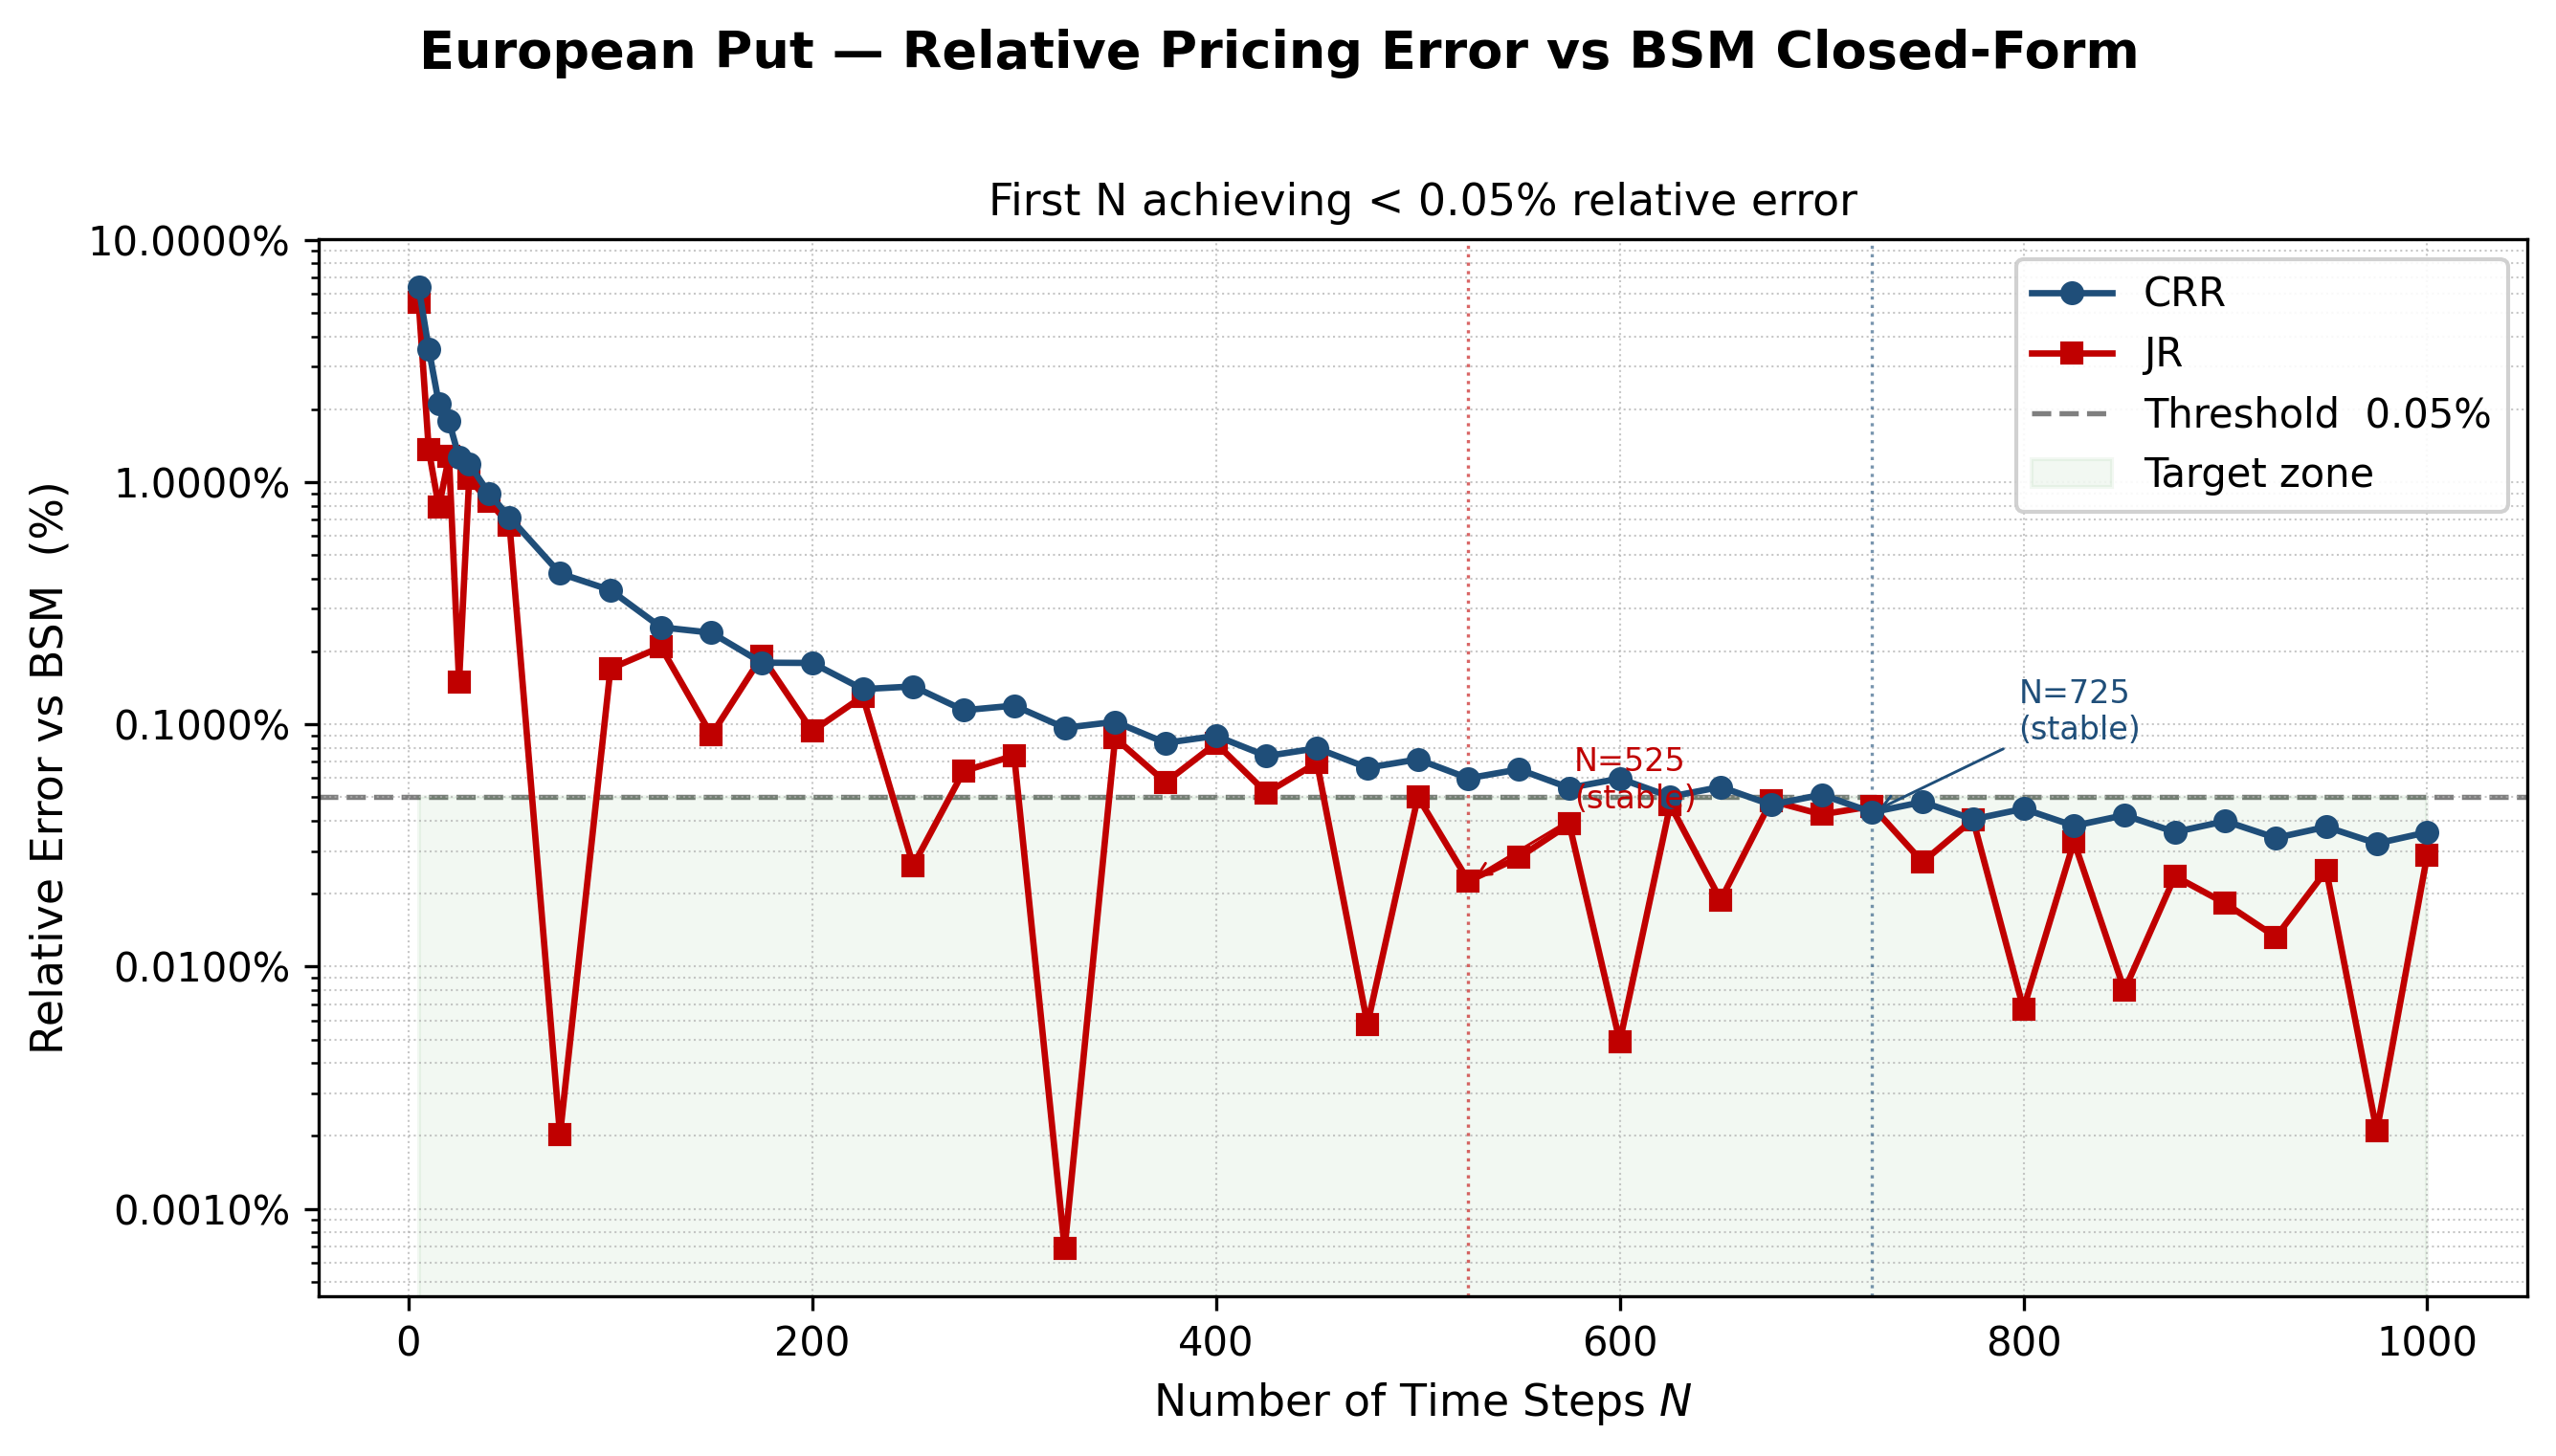
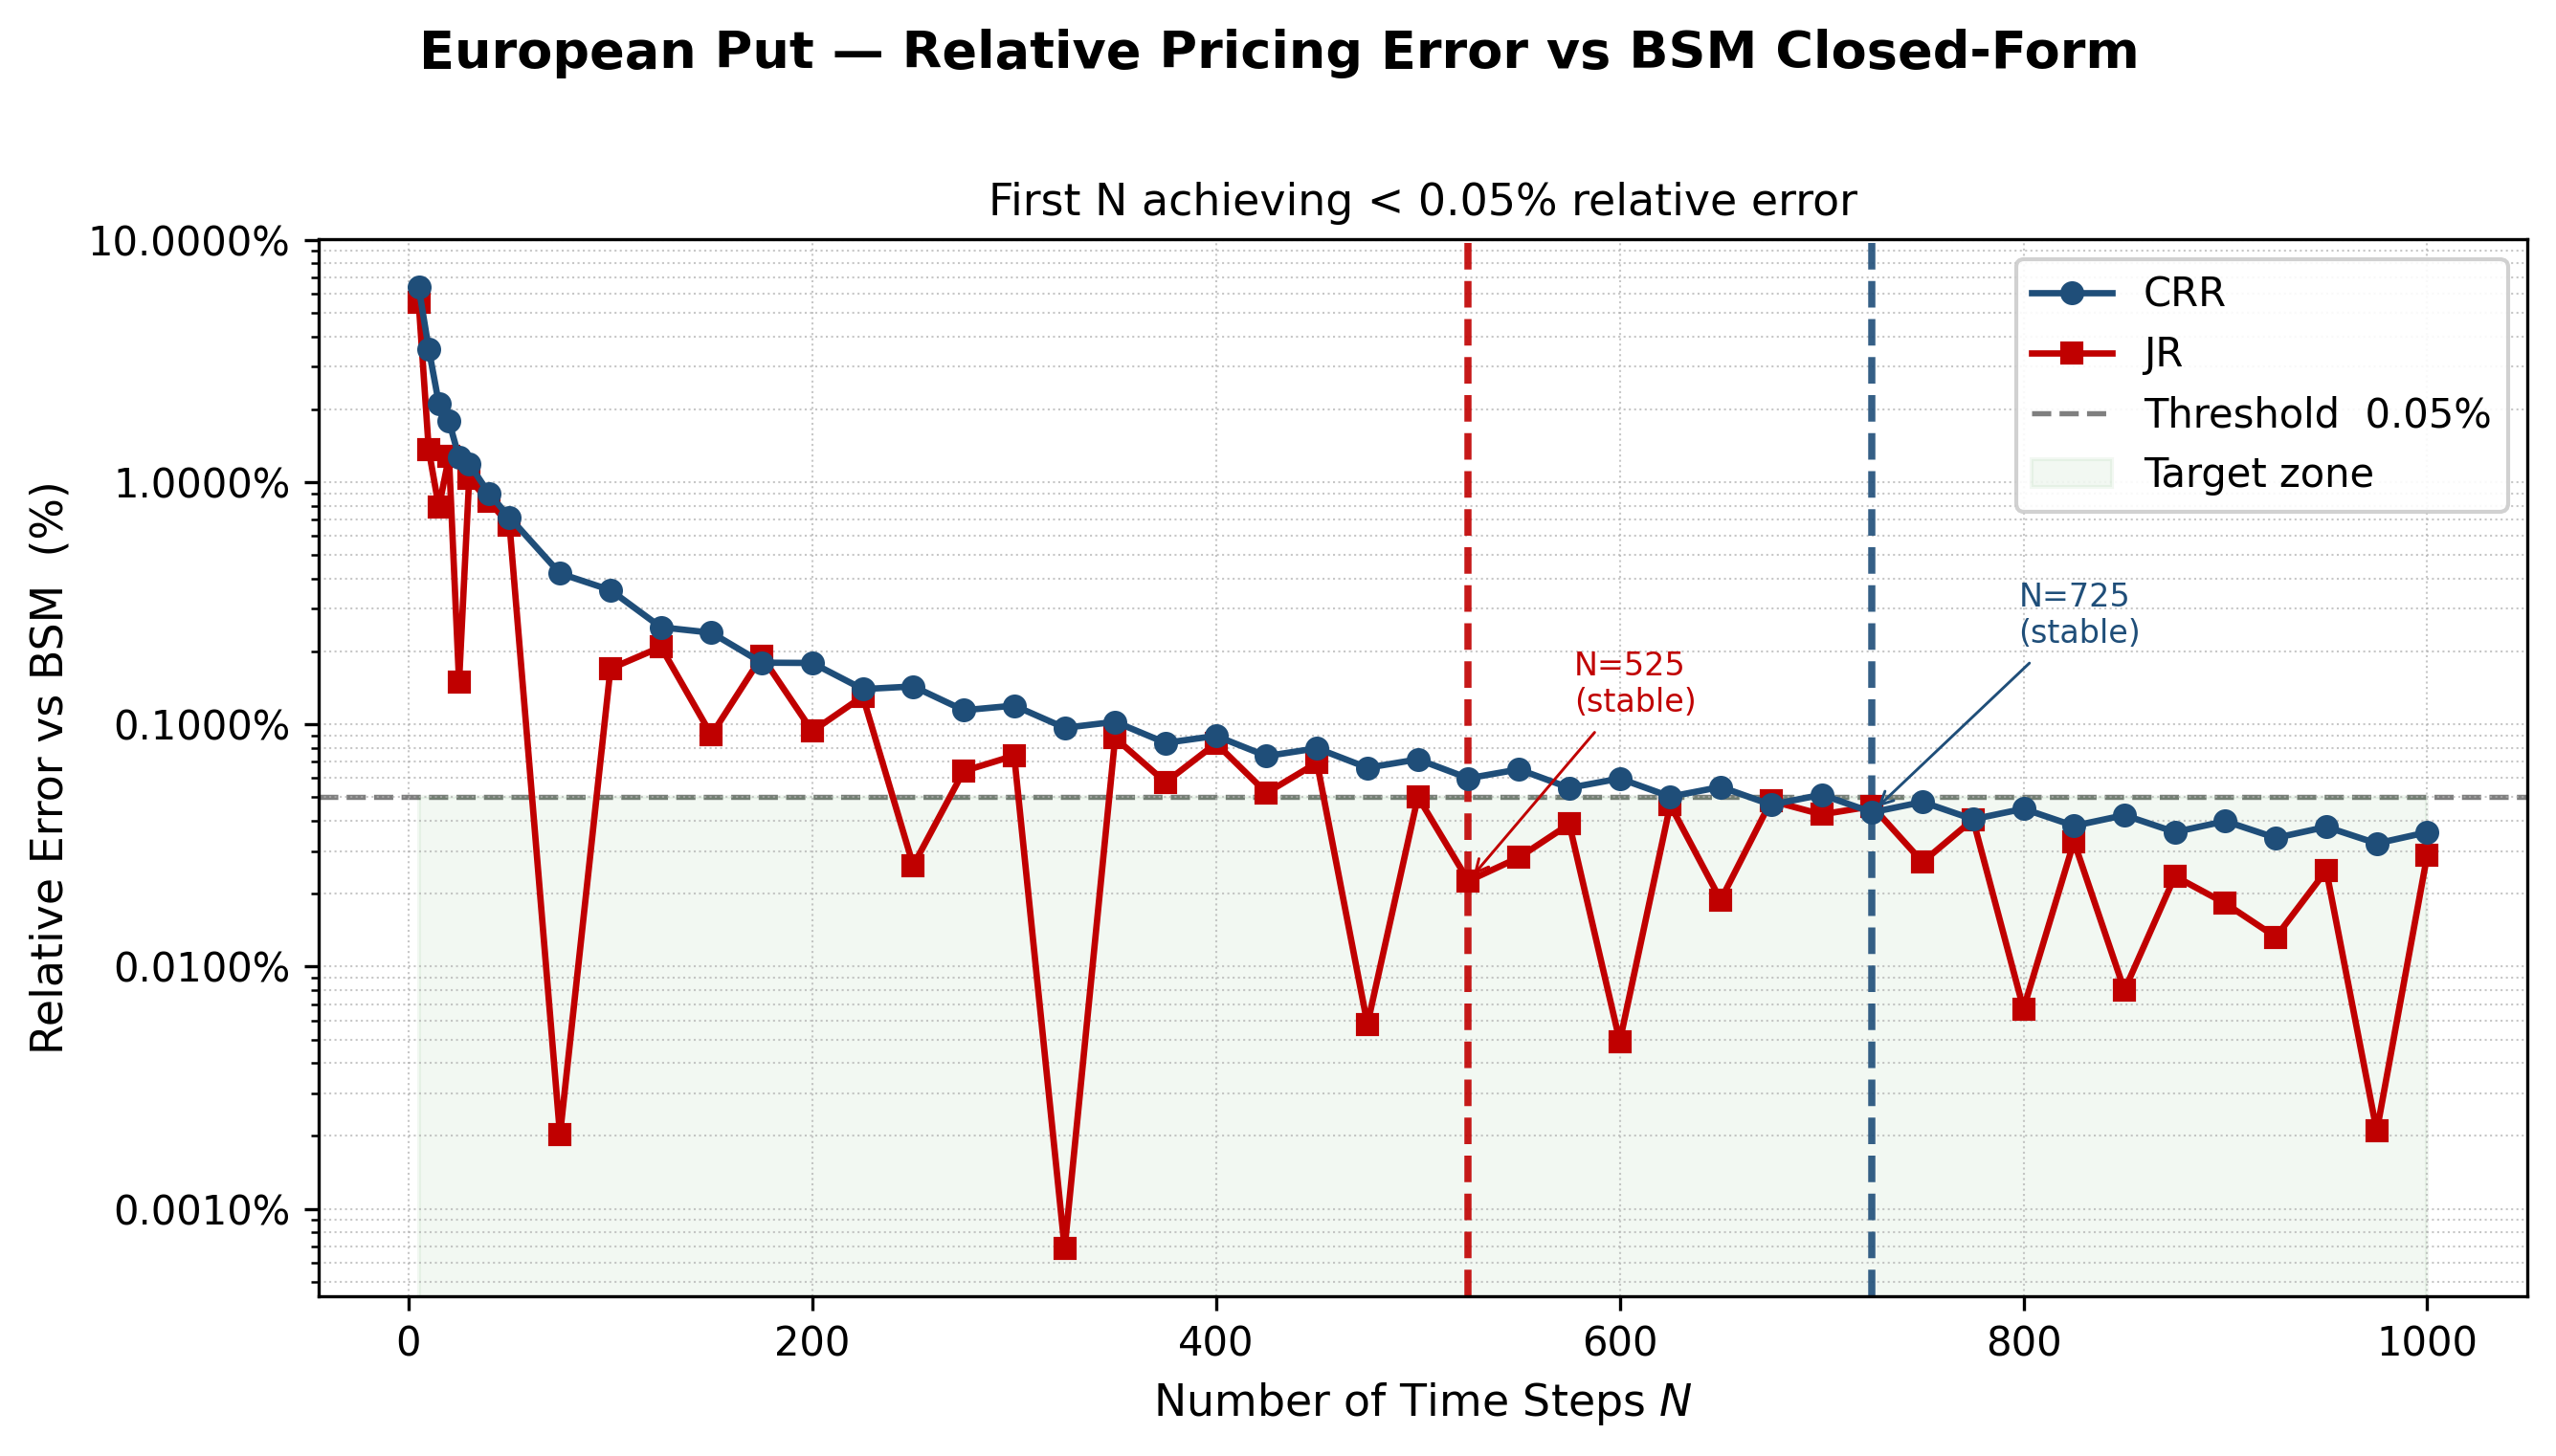
Add Plotly animation, update threshold scan and reference paper
- New codes/convergence_animated.py: interactive HTML animation with
  two-phase buttons (CRR & JR first, Richardson on demand), smooth
  cubic-in-out transitions, dual-scale error axis, auto_play=False
- graphs/convergence_comparison.html: generated animation output
- codes/convergence_plot.py: thicker dashed vertical lines and higher
  annotation offset for N=525/N=725 stable markers
- codes/main.py: added convergence_animated import and HTML generation
- Updated reference paper to QFM_paper (2) (1).pdf

diff --git a/graphs/convergence_comparison.html b/graphs/convergence_comparison.html
@@ -1,0 +1,9 @@
+<html>
+<head><meta charset="utf-8" /></head>
+<body>
+    <div>                        <script>window.PlotlyConfig = {MathJaxConfig: 'local'};</script>
+        <script charset="utf-8" src="https://cdn.plot.ly/plotly-3.5.0.min.js" integrity="sha256-fHbNLP+GlIXN+efbQec78UkemUz3NJp7UmfGxC1tNxs=" crossorigin="anonymous"></script>                <div id="d96d0519-1e3a-4764-9768-af809ed7eab0" class="plotly-graph-div" style="height:530px; width:100%;"></div>            <script>                window.PLOTLYENV=window.PLOTLYENV || {};                                if (document.getElementById("d96d0519-1e3a-4764-9768-af809ed7eab0")) {                    Plotly.newPlot(                        "d96d0519-1e3a-4764-9768-af809ed7eab0",                        [{"line":{"color":"#c00000","dash":"dash","width":1.5},"mode":"lines","name":"BSM  5.5735","x":[5.0,1000.0],"y":[5.573526022256971,5.573526022256971],"type":"scatter","xaxis":"x","yaxis":"y"},{"line":{"color":"#7f7f7f","dash":"dot","width":1.2},"mode":"lines","name":"O(N\u207b\u00b9\u002f\u00b2) guide","x":[5.000000000000001,5.180994827075345,5.368541479636296,5.562877126987011,5.764247523715092,5.97290732046995,6.189120385991053,6.4131601407932415,6.645309902931112,6.8858632462797305,7.135124371784704,7.393408492151151,7.661042230458007,7.938364033201738,8.225724598291835,8.523487318539281,8.832028741198863,9.151739044146415,9.483022529293203,9.826298133861407,10.181999960167209,10.550577824581534,10.932497826362553,11.328242937079366,11.7383136113722,12.163228419821495,12.603524704726196,13.059759259620545,13.532509033388674,14.02237185986741,14.529967213859985,15.055936994516587,15.600946337072548,16.165684453970584,16.75086550643078,17.35722950757053,17.985543258216488,18.63660131659189,19.311227003105625,20.01027344151359,20.734624637769013,21.485196597926045,22.262938486510325,23.06883382682132,23.903901744684394,24.76919825722543,25.665817608297715,26.594893652249947,27.55760128778518,28.555157943723955,29.58882511855065,30.659909975689583,31.769766996528695,32.919799693280815,34.11146238384888,35.34626203093925,36.62576014774918,37.95157477263816,39.32538251528029,40.74892067688527,42.223989447169224,43.75245418085354,45.336247756570636,46.97737302115973,48.67790532244348,50.439995133688605,52.265870773069246,54.157841221572035,56.11829904290651,58.149723409113115,60.25468323569542,62.43584043024028,64.69595325863531,67.03787983313956,69.46458172671892,71.97912771821665,74.58469767309519,77.28458656465693,80.08220864082884,82.98110174178053,85.98493177383556,89.09749734533368,92.32273457030661,95.66472204604172,99.12768601082855,102.71600568841033,106.43421882589912,110.2870274321576,114.27930372390502,118.4160962870648,122.70263646114773,127.14434495474258,131.74683870048088,136.51593795814426,141.4576736748968,146.57829511195047,151.88427774730772,157.38233146457523,163.0794090382043,168.98271492588813,175.09971437923477,181.43814288423712,188.00601594347796,194.81163921244078,201.8636190027448,209.1708731655858,216.74264236914638,224.58850178423774,232.7183731929475,241.14253753561007,249.87164791196358,258.916743052935,268.28926128009044,278.00105497040283,288.0644055446291,298.4920389982515,309.29714199462256,320.49337854066556,332.09490726621766,344.116399328868,356.5730569669317,369.480632724023,382.85544936953767,396.71442054023623,411.0750721290309,425.9555644480266,441.37471519383683,457.3520232442244,473.9076933161539,491.06266151644036,508.83862181730564,527.2580534903216,546.3442495334342,566.1213461270167,586.6143531562009,607.8491858380852,629.8526974938158,652.6527135069822,676.2780665112716,700.7586328518828,726.1253703667991,752.4103575357109,779.6468340460856,807.8692428276878,837.1132736087051,867.4159080485617,898.8154665044921,931.3516564910173,965.0656228936026,1000.0],"y":[0.35535034822457234,0.34908819944341163,0.3429364051548055,0.33689302064066234,0.33095613545361524,0.3251238728130881,0.31939438901200273,0.31376587283394325,0.30823654498059005,0.3028046575092444,0.29746849328026514,0.292226365414243,0.2870766167587406,0.28201761936443,0.277047773970462,0.2721655094989045,0.26736928255808995,0.262657576954715,0.25802890321453875,0.25348179811152644,0.24901482420529195,0.2446265693866907,0.24031564643142103,0.23608069256149175,0.2319203690144181,0.22783336062000914,0.22381837538461358,0.21987414408269193,0.21599941985558627,0.21219297781736085,0.20845361466758822,0.20478014831095975,0.20117141748359904,0.19762628138596067,0.19414361932219848,0.1907223303458886,0.187361332911996,0.18405956453497443,0.18081598145289104,0.17762955829747035,0.17449928776995238,0.1714241803226637,0.16840326384619914,0.16543558336211672,0.16252020072104786,0.15965619430612768,0.1568426587416514,0.15407870460686515,0.15136345815480054,0.14869606103606375,0.14607567002749236,0.14350145676559403,0.1409726074846823,0.1384883227596274,0.13604781725314027,0.1336503194675101,0.13129507150071684,0.12898132880684163,0.1267083599606994,0.12447544642661919,0.12228188233129918,0.1201269742406645,0.11801004094065747,0.11593041322189064,0.11388743366809513,0.11188045644829665,0.10990884711265407,0.10797198239189597,0.10606925000029126,0.10420004844209224,0.10236378682138839,0.10055988465531132,0.09878777169053111,0.09704688772298684,0.09533668242079343,0.09365661515026981,0.09200615480503259,0.09038477963810154,0.088791977096964,0.08722724366154548,0.08569008468503606,0.08418001423752144,0.08269655495236987,0.08123923787532597,0.07980760231626387,0.078401195703553,0.07701957344099011,0.07566229876725267,0.07432894261782874,0.07301908348938056,0.07173230730649774,0.07046820729079901,0.06922638383234056,0.06800644436329047,0.06680800323382936,0.06563068159023805,0.06447410725513336,0.06333791460981478,0.06222174447868421,0.0611252440157027,0.060048066592847955,0.058989871690537585,0.05795032478998334,0.05692909726744235,0.05592586629033186,0.054940314715174736,0.05397213098734347,0.0530210090425707,0.052086648210195735,0.05116875311811583,0.0502670335994125,0.049381204600623424,0.04851098609163068,0.04765610297713707,0.046816285009702446,0.045991266704312465,0.04518078725445293,0.04438459044966311,0.04360242459454196,0.042834042429181575,0.04207920105100297,0.04133766183796913,0.04060919037315132,0.03989355637062477,0.03919053360267019,0.03849989982825806,0.03782143672279357,0.03715492980909918,0.03650016838961375,0.03585694547978638,0.03522505774264398,0.034604305424512,0.03399449229186784,0.033395425569307136,0.0328069158786032,0.03222877717884034,0.03166082670760222,0.031102884923196676,0.03055477544789856,0.030016325012192854,0.029487363400000383,0.02896772339486872,0.02845724072711139,0.027955754021878564,0.02746310474814295,0.026979137168584574,0.02650369829035883,0.02603663781673202,0.025577808099569256,0.025127064092659617],"type":"scatter","xaxis":"x2","yaxis":"y2"},{"legendgroup":"CRR","line":{"color":"#1f4e79","width":1.8},"marker":{"color":"#1f4e79","size":6,"symbol":"circle"},"mode":"lines+markers","name":"CRR","showlegend":true,"x":[],"y":[],"type":"scatter","xaxis":"x","yaxis":"y"},{"legendgroup":"CRR","line":{"color":"#1f4e79","width":1.8},"marker":{"color":"#1f4e79","size":6,"symbol":"circle"},"mode":"lines+markers","name":"CRR","showlegend":false,"x":[],"y":[],"type":"scatter","xaxis":"x2","yaxis":"y2"},{"legendgroup":"JR","line":{"color":"#c00000","width":1.8},"marker":{"color":"#c00000","size":6,"symbol":"square"},"mode":"lines+markers","name":"JR","showlegend":true,"x":[],"y":[],"type":"scatter","xaxis":"x","yaxis":"y"},{"legendgroup":"JR","line":{"color":"#c00000","width":1.8},"marker":{"color":"#c00000","size":6,"symbol":"square"},"mode":"lines+markers","name":"JR","showlegend":false,"x":[],"y":[],"type":"scatter","xaxis":"x2","yaxis":"y2"},{"legendgroup":"Richardson","line":{"color":"#7030a0","width":1.8},"marker":{"color":"#7030a0","size":6,"symbol":"triangle-up"},"mode":"lines+markers","name":"Richardson","showlegend":false,"x":[],"y":[],"type":"scatter","xaxis":"x","yaxis":"y"},{"legendgroup":"Richardson","line":{"color":"#7030a0","width":1.8},"marker":{"color":"#7030a0","size":6,"symbol":"triangle-up"},"mode":"lines+markers","name":"Richardson","showlegend":false,"x":[],"y":[],"type":"scatter","xaxis":"x2","yaxis":"y2"}],                        {"template":{"data":{"histogram2dcontour":[{"type":"histogram2dcontour","colorbar":{"outlinewidth":0,"ticks":""},"colorscale":[[0.0,"#0d0887"],[0.1111111111111111,"#46039f"],[0.2222222222222222,"#7201a8"],[0.3333333333333333,"#9c179e"],[0.4444444444444444,"#bd3786"],[0.5555555555555556,"#d8576b"],[0.6666666666666666,"#ed7953"],[0.7777777777777778,"#fb9f3a"],[0.8888888888888888,"#fdca26"],[1.0,"#f0f921"]]}],"choropleth":[{"type":"choropleth","colorbar":{"outlinewidth":0,"ticks":""}}],"histogram2d":[{"type":"histogram2d","colorbar":{"outlinewidth":0,"ticks":""},"colorscale":[[0.0,"#0d0887"],[0.1111111111111111,"#46039f"],[0.2222222222222222,"#7201a8"],[0.3333333333333333,"#9c179e"],[0.4444444444444444,"#bd3786"],[0.5555555555555556,"#d8576b"],[0.6666666666666666,"#ed7953"],[0.7777777777777778,"#fb9f3a"],[0.8888888888888888,"#fdca26"],[1.0,"#f0f921"]]}],"heatmap":[{"type":"heatmap","colorbar":{"outlinewidth":0,"ticks":""},"colorscale":[[0.0,"#0d0887"],[0.1111111111111111,"#46039f"],[0.2222222222222222,"#7201a8"],[0.3333333333333333,"#9c179e"],[0.4444444444444444,"#bd3786"],[0.5555555555555556,"#d8576b"],[0.6666666666666666,"#ed7953"],[0.7777777777777778,"#fb9f3a"],[0.8888888888888888,"#fdca26"],[1.0,"#f0f921"]]}],"contourcarpet":[{"type":"contourcarpet","colorbar":{"outlinewidth":0,"ticks":""}}],"contour":[{"type":"contour","colorbar":{"outlinewidth":0,"ticks":""},"colorscale":[[0.0,"#0d0887"],[0.1111111111111111,"#46039f"],[0.2222222222222222,"#7201a8"],[0.3333333333333333,"#9c179e"],[0.4444444444444444,"#bd3786"],[0.5555555555555556,"#d8576b"],[0.6666666666666666,"#ed7953"],[0.7777777777777778,"#fb9f3a"],[0.8888888888888888,"#fdca26"],[1.0,"#f0f921"]]}],"surface":[{"type":"surface","colorbar":{"outlinewidth":0,"ticks":""},"colorscale":[[0.0,"#0d0887"],[0.1111111111111111,"#46039f"],[0.2222222222222222,"#7201a8"],[0.3333333333333333,"#9c179e"],[0.4444444444444444,"#bd3786"],[0.5555555555555556,"#d8576b"],[0.6666666666666666,"#ed7953"],[0.7777777777777778,"#fb9f3a"],[0.8888888888888888,"#fdca26"],[1.0,"#f0f921"]]}],"mesh3d":[{"type":"mesh3d","colorbar":{"outlinewidth":0,"ticks":""}}],"scatter":[{"fillpattern":{"fillmode":"overlay","size":10,"solidity":0.2},"type":"scatter"}],"parcoords":[{"type":"parcoords","line":{"colorbar":{"outlinewidth":0,"ticks":""}}}],"scatterpolargl":[{"type":"scatterpolargl","marker":{"colorbar":{"outlinewidth":0,"ticks":""}}}],"bar":[{"error_x":{"color":"#2a3f5f"},"error_y":{"color":"#2a3f5f"},"marker":{"line":{"color":"#E5ECF6","width":0.5},"pattern":{"fillmode":"overlay","size":10,"solidity":0.2}},"type":"bar"}],"scattergeo":[{"type":"scattergeo","marker":{"colorbar":{"outlinewidth":0,"ticks":""}}}],"scatterpolar":[{"type":"scatterpolar","marker":{"colorbar":{"outlinewidth":0,"ticks":""}}}],"histogram":[{"marker":{"pattern":{"fillmode":"overlay","size":10,"solidity":0.2}},"type":"histogram"}],"scattergl":[{"type":"scattergl","marker":{"colorbar":{"outlinewidth":0,"ticks":""}}}],"scatter3d":[{"type":"scatter3d","line":{"colorbar":{"outlinewidth":0,"ticks":""}},"marker":{"colorbar":{"outlinewidth":0,"ticks":""}}}],"scattermap":[{"type":"scattermap","marker":{"colorbar":{"outlinewidth":0,"ticks":""}}}],"scattermapbox":[{"type":"scattermapbox","marker":{"colorbar":{"outlinewidth":0,"ticks":""}}}],"scatterternary":[{"type":"scatterternary","marker":{"colorbar":{"outlinewidth":0,"ticks":""}}}],"scattercarpet":[{"type":"scattercarpet","marker":{"colorbar":{"outlinewidth":0,"ticks":""}}}],"carpet":[{"aaxis":{"endlinecolor":"#2a3f5f","gridcolor":"white","linecolor":"white","minorgridcolor":"white","startlinecolor":"#2a3f5f"},"baxis":{"endlinecolor":"#2a3f5f","gridcolor":"white","linecolor":"white","minorgridcolor":"white","startlinecolor":"#2a3f5f"},"type":"carpet"}],"table":[{"cells":{"fill":{"color":"#EBF0F8"},"line":{"color":"white"}},"header":{"fill":{"color":"#C8D4E3"},"line":{"color":"white"}},"type":"table"}],"barpolar":[{"marker":{"line":{"color":"#E5ECF6","width":0.5},"pattern":{"fillmode":"overlay","size":10,"solidity":0.2}},"type":"barpolar"}],"pie":[{"automargin":true,"type":"pie"}]},"layout":{"autotypenumbers":"strict","colorway":["#636efa","#EF553B","#00cc96","#ab63fa","#FFA15A","#19d3f3","#FF6692","#B6E880","#FF97FF","#FECB52"],"font":{"color":"#2a3f5f"},"hovermode":"closest","hoverlabel":{"align":"left"},"paper_bgcolor":"white","plot_bgcolor":"#E5ECF6","polar":{"bgcolor":"#E5ECF6","angularaxis":{"gridcolor":"white","linecolor":"white","ticks":""},"radialaxis":{"gridcolor":"white","linecolor":"white","ticks":""}},"ternary":{"bgcolor":"#E5ECF6","aaxis":{"gridcolor":"white","linecolor":"white","ticks":""},"baxis":{"gridcolor":"white","linecolor":"white","ticks":""},"caxis":{"gridcolor":"white","linecolor":"white","ticks":""}},"coloraxis":{"colorbar":{"outlinewidth":0,"ticks":""}},"colorscale":{"sequential":[[0.0,"#0d0887"],[0.1111111111111111,"#46039f"],[0.2222222222222222,"#7201a8"],[0.3333333333333333,"#9c179e"],[0.4444444444444444,"#bd3786"],[0.5555555555555556,"#d8576b"],[0.6666666666666666,"#ed7953"],[0.7777777777777778,"#fb9f3a"],[0.8888888888888888,"#fdca26"],[1.0,"#f0f921"]],"sequentialminus":[[0.0,"#0d0887"],[0.1111111111111111,"#46039f"],[0.2222222222222222,"#7201a8"],[0.3333333333333333,"#9c179e"],[0.4444444444444444,"#bd3786"],[0.5555555555555556,"#d8576b"],[0.6666666666666666,"#ed7953"],[0.7777777777777778,"#fb9f3a"],[0.8888888888888888,"#fdca26"],[1.0,"#f0f921"]],"diverging":[[0,"#8e0152"],[0.1,"#c51b7d"],[0.2,"#de77ae"],[0.3,"#f1b6da"],[0.4,"#fde0ef"],[0.5,"#f7f7f7"],[0.6,"#e6f5d0"],[0.7,"#b8e186"],[0.8,"#7fbc41"],[0.9,"#4d9221"],[1,"#276419"]]},"xaxis":{"gridcolor":"white","linecolor":"white","ticks":"","title":{"standoff":15},"zerolinecolor":"white","automargin":true,"zerolinewidth":2},"yaxis":{"gridcolor":"white","linecolor":"white","ticks":"","title":{"standoff":15},"zerolinecolor":"white","automargin":true,"zerolinewidth":2},"scene":{"xaxis":{"backgroundcolor":"#E5ECF6","gridcolor":"white","linecolor":"white","showbackground":true,"ticks":"","zerolinecolor":"white","gridwidth":2},"yaxis":{"backgroundcolor":"#E5ECF6","gridcolor":"white","linecolor":"white","showbackground":true,"ticks":"","zerolinecolor":"white","gridwidth":2},"zaxis":{"backgroundcolor":"#E5ECF6","gridcolor":"white","linecolor":"white","showbackground":true,"ticks":"","zerolinecolor":"white","gridwidth":2}},"shapedefaults":{"line":{"color":"#2a3f5f"}},"annotationdefaults":{"arrowcolor":"#2a3f5f","arrowhead":0,"arrowwidth":1},"geo":{"bgcolor":"white","landcolor":"#E5ECF6","subunitcolor":"white","showland":true,"showlakes":true,"lakecolor":"white"},"title":{"x":0.05},"mapbox":{"style":"light"}}},"xaxis":{"anchor":"y","domain":[0.0,0.445],"title":{"text":"Number of Time Steps N"},"minor":{"showgrid":true},"type":"log","showgrid":true,"gridcolor":"#e8e8e8","range":[0.0,4.0]},"yaxis":{"anchor":"x","domain":[0.0,1.0],"title":{"text":"Option Price"},"showgrid":true,"gridcolor":"#e8e8e8","range":[5.293472763612723,6.011755101812259]},"xaxis2":{"anchor":"y2","domain":[0.555,1.0],"title":{"text":"Number of Time Steps N"},"minor":{"showgrid":true},"type":"log","showgrid":true,"gridcolor":"#e8e8e8","range":[0.0,4.0]},"yaxis2":{"anchor":"x2","domain":[0.0,1.0],"title":{"text":"Absolute Pricing Error"},"minor":{"showgrid":true},"type":"log","showgrid":true,"gridcolor":"#e8e8e8","range":[-5.0,-0.0]},"annotations":[{"font":{"size":16},"showarrow":false,"text":"Convergence Trajectory","x":0.2225,"xanchor":"center","xref":"paper","y":1.0,"yanchor":"bottom","yref":"paper"},{"font":{"size":16},"showarrow":false,"text":"Error Decay (log\u2013log)","x":0.7775000000000001,"xanchor":"center","xref":"paper","y":1.0,"yanchor":"bottom","yref":"paper"}],"updatemenus":[{"buttons":[{"args":[["p1_5","p1_10","p1_20","p1_30","p1_50","p1_75","p1_100","p1_150","p1_200","p1_300","p1_500","p1_750","p1_1000"],{"frame":{"duration":630,"redraw":true},"transition":{"duration":470,"easing":"cubic-in-out"},"fromcurrent":false,"mode":"immediate"}],"label":"\u25b6  CRR & JR","method":"animate"},{"args":[["p2_10","p2_20","p2_30","p2_50","p2_100","p2_150","p2_200","p2_300","p2_500","p2_750","p2_1000"],{"frame":{"duration":630,"redraw":true},"transition":{"duration":470,"easing":"cubic-in-out"},"fromcurrent":false,"mode":"immediate"}],"label":"\u25b6  Add Richardson","method":"animate"},{"args":[[null],{"frame":{"duration":0,"redraw":false},"mode":"immediate"}],"label":"\u23f8  Pause","method":"animate"}],"direction":"left","showactive":true,"type":"buttons","x":0.5,"xanchor":"center","y":-0.13}],"title":{"font":{"size":14},"text":"European Put \u2014 CRR vs Jarrow-Rudd vs Richardson: Convergence to BSM","x":0.5},"legend":{"x":1.02,"y":1,"borderwidth":1},"margin":{"l":65,"r":160,"t":75,"b":110},"font":{"family":"Arial","size":11},"height":530,"plot_bgcolor":"white","paper_bgcolor":"white"},                        {"responsive": true}                    ).then(function(){
+                            Plotly.addFrames('d96d0519-1e3a-4764-9768-af809ed7eab0', [{"data":[{"x":[5],"y":[5.928876370481543],"type":"scatter"},{"x":[5],"y":[0.35535034822457234],"type":"scatter"},{"x":[5],"y":[5.881286140396278],"type":"scatter"},{"x":[5],"y":[0.30776011813930726],"type":"scatter"}],"name":"p1_5","traces":[2,3,4,5]},{"data":[{"x":[5,10],"y":[5.928876370481543,5.376351494943439],"type":"scatter"},{"x":[5,10],"y":[0.35535034822457234,0.1971745273135319],"type":"scatter"},{"x":[5,10],"y":[5.881286140396278,5.649108580688194],"type":"scatter"},{"x":[5,10],"y":[0.30776011813930726,0.07558255843122375],"type":"scatter"}],"name":"p1_10","traces":[2,3,4,5]},{"data":[{"x":[5,10,20],"y":[5.928876370481543,5.376351494943439,5.474202639124486],"type":"scatter"},{"x":[5,10,20],"y":[0.35535034822457234,0.1971745273135319,0.0993233831324849],"type":"scatter"},{"x":[5,10,20],"y":[5.881286140396278,5.649108580688194,5.644530987825222],"type":"scatter"},{"x":[5,10,20],"y":[0.30776011813930726,0.07558255843122375,0.07100496556825142],"type":"scatter"}],"name":"p1_20","traces":[2,3,4,5]},{"data":[{"x":[5,10,20,30],"y":[5.928876370481543,5.376351494943439,5.474202639124486,5.507157570016967],"type":"scatter"},{"x":[5,10,20,30],"y":[0.35535034822457234,0.1971745273135319,0.0993233831324849,0.06636845224000343],"type":"scatter"},{"x":[5,10,20,30],"y":[5.881286140396278,5.649108580688194,5.644530987825222,5.631124449340437],"type":"scatter"},{"x":[5,10,20,30],"y":[0.30776011813930726,0.07558255843122375,0.07100496556825142,0.057598427083465964],"type":"scatter"}],"name":"p1_30","traces":[2,3,4,5]},{"data":[{"x":[5,10,20,30,50],"y":[5.928876370481543,5.376351494943439,5.474202639124486,5.507157570016967,5.533633990803824],"type":"scatter"},{"x":[5,10,20,30,50],"y":[0.35535034822457234,0.1971745273135319,0.0993233831324849,0.06636845224000343,0.03989203145314679],"type":"scatter"},{"x":[5,10,20,30,50],"y":[5.881286140396278,5.649108580688194,5.644530987825222,5.631124449340437,5.610656674290329],"type":"scatter"},{"x":[5,10,20,30,50],"y":[0.30776011813930726,0.07558255843122375,0.07100496556825142,0.057598427083465964,0.0371306520333583],"type":"scatter"}],"name":"p1_50","traces":[2,3,4,5]},{"data":[{"x":[5,10,20,30,50,75],"y":[5.928876370481543,5.376351494943439,5.474202639124486,5.507157570016967,5.533633990803824,5.596927212603328],"type":"scatter"},{"x":[5,10,20,30,50,75],"y":[0.35535034822457234,0.1971745273135319,0.0993233831324849,0.06636845224000343,0.03989203145314679,0.023401190346357126],"type":"scatter"},{"x":[5,10,20,30,50,75],"y":[5.881286140396278,5.649108580688194,5.644530987825222,5.631124449340437,5.610656674290329,5.573413372196443],"type":"scatter"},{"x":[5,10,20,30,50,75],"y":[0.30776011813930726,0.07558255843122375,0.07100496556825142,0.057598427083465964,0.0371306520333583,0.0001126500605277414],"type":"scatter"}],"name":"p1_75","traces":[2,3,4,5]},{"data":[{"x":[5,10,20,30,50,75,100],"y":[5.928876370481543,5.376351494943439,5.474202639124486,5.507157570016967,5.533633990803824,5.596927212603328,5.553554112321353],"type":"scatter"},{"x":[5,10,20,30,50,75,100],"y":[0.35535034822457234,0.1971745273135319,0.0993233831324849,0.06636845224000343,0.03989203145314679,0.023401190346357126,0.019971909935617482],"type":"scatter"},{"x":[5,10,20,30,50,75,100],"y":[5.881286140396278,5.649108580688194,5.644530987825222,5.631124449340437,5.610656674290329,5.573413372196443,5.5829925512121275],"type":"scatter"},{"x":[5,10,20,30,50,75,100],"y":[0.30776011813930726,0.07558255843122375,0.07100496556825142,0.057598427083465964,0.0371306520333583,0.0001126500605277414,0.009466528955156761],"type":"scatter"}],"name":"p1_100","traces":[2,3,4,5]},{"data":[{"x":[5,10,20,30,50,75,100,150],"y":[5.928876370481543,5.376351494943439,5.474202639124486,5.507157570016967,5.533633990803824,5.596927212603328,5.553554112321353,5.560205753123225],"type":"scatter"},{"x":[5,10,20,30,50,75,100,150],"y":[0.35535034822457234,0.1971745273135319,0.0993233831324849,0.06636845224000343,0.03989203145314679,0.023401190346357126,0.019971909935617482,0.013320269133745732],"type":"scatter"},{"x":[5,10,20,30,50,75,100,150],"y":[5.881286140396278,5.649108580688194,5.644530987825222,5.631124449340437,5.610656674290329,5.573413372196443,5.5829925512121275,5.568487966788269],"type":"scatter"},{"x":[5,10,20,30,50,75,100,150],"y":[0.30776011813930726,0.07558255843122375,0.07100496556825142,0.057598427083465964,0.0371306520333583,0.0001126500605277414,0.009466528955156761,0.005038055468701508],"type":"scatter"}],"name":"p1_150","traces":[2,3,4,5]},{"data":[{"x":[5,10,20,30,50,75,100,150,200],"y":[5.928876370481543,5.376351494943439,5.474202639124486,5.507157570016967,5.533633990803824,5.596927212603328,5.553554112321353,5.560205753123225,5.563533709930569],"type":"scatter"},{"x":[5,10,20,30,50,75,100,150,200],"y":[0.35535034822457234,0.1971745273135319,0.0993233831324849,0.06636845224000343,0.03989203145314679,0.023401190346357126,0.019971909935617482,0.013320269133745732,0.009992312326401631],"type":"scatter"},{"x":[5,10,20,30,50,75,100,150,200],"y":[5.881286140396278,5.649108580688194,5.644530987825222,5.631124449340437,5.610656674290329,5.573413372196443,5.5829925512121275,5.568487966788269,5.56830181879698],"type":"scatter"},{"x":[5,10,20,30,50,75,100,150,200],"y":[0.30776011813930726,0.07558255843122375,0.07100496556825142,0.057598427083465964,0.0371306520333583,0.0001126500605277414,0.009466528955156761,0.005038055468701508,0.0052242034599903064],"type":"scatter"}],"name":"p1_200","traces":[2,3,4,5]},{"data":[{"x":[5,10,20,30,50,75,100,150,200,300],"y":[5.928876370481543,5.376351494943439,5.474202639124486,5.507157570016967,5.533633990803824,5.596927212603328,5.553554112321353,5.560205753123225,5.563533709930569,5.566863079495813],"type":"scatter"},{"x":[5,10,20,30,50,75,100,150,200,300],"y":[0.35535034822457234,0.1971745273135319,0.0993233831324849,0.06636845224000343,0.03989203145314679,0.023401190346357126,0.019971909935617482,0.013320269133745732,0.009992312326401631,0.006662942761157531],"type":"scatter"},{"x":[5,10,20,30,50,75,100,150,200,300],"y":[5.881286140396278,5.649108580688194,5.644530987825222,5.631124449340437,5.610656674290329,5.573413372196443,5.5829925512121275,5.568487966788269,5.56830181879698,5.5776684995305885],"type":"scatter"},{"x":[5,10,20,30,50,75,100,150,200,300],"y":[0.30776011813930726,0.07558255843122375,0.07100496556825142,0.057598427083465964,0.0371306520333583,0.0001126500605277414,0.009466528955156761,0.005038055468701508,0.0052242034599903064,0.004142477273617828],"type":"scatter"}],"name":"p1_300","traces":[2,3,4,5]},{"data":[{"x":[5,10,20,30,50,75,100,150,200,300,500],"y":[5.928876370481543,5.376351494943439,5.474202639124486,5.507157570016967,5.533633990803824,5.596927212603328,5.553554112321353,5.560205753123225,5.563533709930569,5.566863079495813,5.5695275865157745],"type":"scatter"},{"x":[5,10,20,30,50,75,100,150,200,300,500],"y":[0.35535034822457234,0.1971745273135319,0.0993233831324849,0.06636845224000343,0.03989203145314679,0.023401190346357126,0.019971909935617482,0.013320269133745732,0.009992312326401631,0.006662942761157531,0.003998435741196182],"type":"scatter"},{"x":[5,10,20,30,50,75,100,150,200,300,500],"y":[5.881286140396278,5.649108580688194,5.644530987825222,5.631124449340437,5.610656674290329,5.573413372196443,5.5829925512121275,5.568487966788269,5.56830181879698,5.5776684995305885,5.576324280063185],"type":"scatter"},{"x":[5,10,20,30,50,75,100,150,200,300,500],"y":[0.30776011813930726,0.07558255843122375,0.07100496556825142,0.057598427083465964,0.0371306520333583,0.0001126500605277414,0.009466528955156761,0.005038055468701508,0.0052242034599903064,0.004142477273617828,0.0027982578062140107],"type":"scatter"}],"name":"p1_500","traces":[2,3,4,5]},{"data":[{"x":[5,10,20,30,50,75,100,150,200,300,500,750],"y":[5.928876370481543,5.376351494943439,5.474202639124486,5.507157570016967,5.533633990803824,5.596927212603328,5.553554112321353,5.560205753123225,5.563533709930569,5.566863079495813,5.5695275865157745,5.570860175621896],"type":"scatter"},{"x":[5,10,20,30,50,75,100,150,200,300,500,750],"y":[0.35535034822457234,0.1971745273135319,0.0993233831324849,0.06636845224000343,0.03989203145314679,0.023401190346357126,0.019971909935617482,0.013320269133745732,0.009992312326401631,0.006662942761157531,0.003998435741196182,0.0026658466350744092],"type":"scatter"},{"x":[5,10,20,30,50,75,100,150,200,300,500,750],"y":[5.881286140396278,5.649108580688194,5.644530987825222,5.631124449340437,5.610656674290329,5.573413372196443,5.5829925512121275,5.568487966788269,5.56830181879698,5.5776684995305885,5.576324280063185,5.572020017937119],"type":"scatter"},{"x":[5,10,20,30,50,75,100,150,200,300,500,750],"y":[0.30776011813930726,0.07558255843122375,0.07100496556825142,0.057598427083465964,0.0371306520333583,0.0001126500605277414,0.009466528955156761,0.005038055468701508,0.0052242034599903064,0.004142477273617828,0.0027982578062140107,0.001506004319852039],"type":"scatter"}],"name":"p1_750","traces":[2,3,4,5]},{"data":[{"x":[5,10,20,30,50,75,100,150,200,300,500,750,1000],"y":[5.928876370481543,5.376351494943439,5.474202639124486,5.507157570016967,5.533633990803824,5.596927212603328,5.553554112321353,5.560205753123225,5.563533709930569,5.566863079495813,5.5695275865157745,5.570860175621896,5.57152655383368],"type":"scatter"},{"x":[5,10,20,30,50,75,100,150,200,300,500,750,1000],"y":[0.35535034822457234,0.1971745273135319,0.0993233831324849,0.06636845224000343,0.03989203145314679,0.023401190346357126,0.019971909935617482,0.013320269133745732,0.009992312326401631,0.006662942761157531,0.003998435741196182,0.0026658466350744092,0.0019994684232909066],"type":"scatter"},{"x":[5,10,20,30,50,75,100,150,200,300,500,750,1000],"y":[5.881286140396278,5.649108580688194,5.644530987825222,5.631124449340437,5.610656674290329,5.573413372196443,5.5829925512121275,5.568487966788269,5.56830181879698,5.5776684995305885,5.576324280063185,5.572020017937119,5.575135131892134],"type":"scatter"},{"x":[5,10,20,30,50,75,100,150,200,300,500,750,1000],"y":[0.30776011813930726,0.07558255843122375,0.07100496556825142,0.057598427083465964,0.0371306520333583,0.0001126500605277414,0.009466528955156761,0.005038055468701508,0.0052242034599903064,0.004142477273617828,0.0027982578062140107,0.001506004319852039,0.0016091096351633638],"type":"scatter"}],"name":"p1_1000","traces":[2,3,4,5]},{"data":[{"showlegend":true,"x":[10],"y":[5.572053783305533],"type":"scatter"},{"x":[10],"y":[0.0014722389514378875],"type":"scatter"}],"layout":{"yaxis2":{"range":[-8.0,-0.0]}},"name":"p2_10","traces":[6,7]},{"data":[{"showlegend":false,"x":[10,20],"y":[5.572053783305533,5.573185216338929],"type":"scatter"},{"x":[10,20],"y":[0.0014722389514378875,0.0003408059180420864],"type":"scatter"}],"name":"p2_20","traces":[6,7]},{"data":[{"showlegend":false,"x":[10,20,30],"y":[5.572053783305533,5.573185216338929,5.57337875542606],"type":"scatter"},{"x":[10,20,30],"y":[0.0014722389514378875,0.0003408059180420864,0.0001472668309103753],"type":"scatter"}],"name":"p2_30","traces":[6,7]},{"data":[{"showlegend":false,"x":[10,20,30,50],"y":[5.572053783305533,5.573185216338929,5.57337875542606,5.5734742338388825],"type":"scatter"},{"x":[10,20,30,50],"y":[0.0014722389514378875,0.0003408059180420864,0.0001472668309103753,5.178841808817225e-05],"type":"scatter"}],"name":"p2_50","traces":[6,7]},{"data":[{"showlegend":false,"x":[10,20,30,50,100],"y":[5.572053783305533,5.573185216338929,5.57337875542606,5.5734742338388825,5.573513307539785],"type":"scatter"},{"x":[10,20,30,50,100],"y":[0.0014722389514378875,0.0003408059180420864,0.0001472668309103753,5.178841808817225e-05,1.2714717185779989e-05],"type":"scatter"}],"name":"p2_100","traces":[6,7]},{"data":[{"showlegend":false,"x":[10,20,30,50,100,150],"y":[5.572053783305533,5.573185216338929,5.57337875542606,5.5734742338388825,5.573513307539785,5.573520405868401],"type":"scatter"},{"x":[10,20,30,50,100,150],"y":[0.0014722389514378875,0.0003408059180420864,0.0001472668309103753,5.178841808817225e-05,1.2714717185779989e-05,5.616388569329445e-06],"type":"scatter"}],"name":"p2_150","traces":[6,7]},{"data":[{"showlegend":false,"x":[10,20,30,50,100,150,200],"y":[5.572053783305533,5.573185216338929,5.57337875542606,5.5734742338388825,5.573513307539785,5.573520405868401,5.573522872787995],"type":"scatter"},{"x":[10,20,30,50,100,150,200],"y":[0.0014722389514378875,0.0003408059180420864,0.0001472668309103753,5.178841808817225e-05,1.2714717185779989e-05,5.616388569329445e-06,3.149468975394143e-06],"type":"scatter"}],"name":"p2_200","traces":[6,7]},{"data":[{"showlegend":false,"x":[10,20,30,50,100,150,200,300],"y":[5.572053783305533,5.573185216338929,5.57337875542606,5.5734742338388825,5.573513307539785,5.573520405868401,5.573522872787995,5.573524626824832],"type":"scatter"},{"x":[10,20,30,50,100,150,200,300],"y":[0.0014722389514378875,0.0003408059180420864,0.0001472668309103753,5.178841808817225e-05,1.2714717185779989e-05,5.616388569329445e-06,3.149468975394143e-06,1.395432138728836e-06],"type":"scatter"}],"name":"p2_300","traces":[6,7]},{"data":[{"showlegend":false,"x":[10,20,30,50,100,150,200,300,500],"y":[5.572053783305533,5.573185216338929,5.57337875542606,5.5734742338388825,5.573513307539785,5.573520405868401,5.573522872787995,5.573524626824832,5.573525521151585],"type":"scatter"},{"x":[10,20,30,50,100,150,200,300,500],"y":[0.0014722389514378875,0.0003408059180420864,0.0001472668309103753,5.178841808817225e-05,1.2714717185779989e-05,5.616388569329445e-06,3.149468975394143e-06,1.395432138728836e-06,5.011053856307512e-07],"type":"scatter"}],"name":"p2_500","traces":[6,7]},{"data":[{"showlegend":false,"x":[10,20,30,50,100,150,200,300,500,750],"y":[5.572053783305533,5.573185216338929,5.57337875542606,5.5734742338388825,5.573513307539785,5.573520405868401,5.573522872787995,5.573524626824832,5.573525521151585,5.573525799814974],"type":"scatter"},{"x":[10,20,30,50,100,150,200,300,500,750],"y":[0.0014722389514378875,0.0003408059180420864,0.0001472668309103753,5.178841808817225e-05,1.2714717185779989e-05,5.616388569329445e-06,3.149468975394143e-06,1.395432138728836e-06,5.011053856307512e-07,2.224419963781088e-07],"type":"scatter"}],"name":"p2_750","traces":[6,7]},{"data":[{"showlegend":false,"x":[10,20,30,50,100,150,200,300,500,750,1000],"y":[5.572053783305533,5.573185216338929,5.57337875542606,5.5734742338388825,5.573513307539785,5.573520405868401,5.573522872787995,5.573524626824832,5.573525521151585,5.573525799814974,5.573525897213202],"type":"scatter"},{"x":[10,20,30,50,100,150,200,300,500,750,1000],"y":[0.0014722389514378875,0.0003408059180420864,0.0001472668309103753,5.178841808817225e-05,1.2714717185779989e-05,5.616388569329445e-06,3.149468975394143e-06,1.395432138728836e-06,5.011053856307512e-07,2.224419963781088e-07,1.2504376911692816e-07],"type":"scatter"}],"name":"p2_1000","traces":[6,7]}]);
+                        })                };            </script>        </div>
+</body>
+</html>

diff --git a/codes/convergence_animated.py b/codes/convergence_animated.py
@@ -1,0 +1,213 @@
+import numpy as np
+import plotly.graph_objects as go
+from plotly.subplots import make_subplots
+
+
+def plot_convergence_html(results_dict, save_path="convergence_comparison.html"):
+    """
+    Two-phase interactive animation (Plotly HTML):
+      On load   : only BSM reference and O(N^-1/2) guide visible; no curves drawn.
+      Phase 1   : "▶ CRR & JR"      — CRR and JR build up progressively.
+      Phase 2   : "▶ Add Richardson" — Richardson appears while CRR/JR stay frozen.
+      Pause     : stops whichever phase is running.
+    Smooth cubic-in-out easing between frames.
+    """
+    COLORS  = {"CRR": "#1f4e79", "JR": "#c00000", "Richardson": "#7030a0"}
+    SYMBOLS = {"CRR": "circle",  "JR": "square",  "Richardson": "triangle-up"}
+    GREY = "#7f7f7f"
+
+    crr_res = results_dict["CRR"]
+    jr_res  = results_dict["JR"]
+    ric_res = results_dict["Richardson"]
+    bsm     = float(crr_res["bsm_ref"])
+
+    all_N_vals = sorted(set(
+        int(n) for res in results_dict.values() for n in res["N_values"]
+    ))
+    x_min, x_max = float(all_N_vals[0]), float(all_N_vals[-1])
+
+    guide_x = np.logspace(np.log10(x_min), np.log10(x_max), 150)
+    scale   = float(crr_res["errors_abs"][0]) * np.sqrt(float(crr_res["N_values"][0]))
+    guide_y = scale / np.sqrt(guide_x)
+
+    # ── Axis ranges (computed early — needed in frame construction) ───────────
+    all_prices  = np.concatenate([crr_res["prices"], jr_res["prices"], ric_res["prices"]])
+    p_margin    = (all_prices.max() - all_prices.min()) * 0.15
+    price_range = [all_prices.min() - p_margin, all_prices.max() + p_margin]
+
+    log_x_min = np.floor(np.log10(x_min) - 0.1)
+    log_x_max = np.ceil(np.log10(x_max)  + 0.1)
+
+    # Phase 1 error range: CRR + JR + guide
+    p1_errors      = np.concatenate([crr_res["errors_abs"], jr_res["errors_abs"], guide_y])
+    p1_errors      = p1_errors[p1_errors > 0]
+    log_err_min_p1 = np.floor(np.log10(p1_errors.min()) - 0.3)
+    log_err_max_p1 = np.ceil(np.log10(p1_errors.max())  + 0.3)
+
+    # Phase 2 error range: expand downward to show Richardson's much smaller errors
+    ric_errors_nz  = ric_res["errors_abs"][ric_res["errors_abs"] > 1e-12]
+    log_err_min_p2 = np.floor(np.log10(ric_errors_nz.min()) - 0.3) if len(ric_errors_nz) else log_err_min_p1 - 4
+    log_err_max_p2 = log_err_max_p1
+
+    # ── Figure ───────────────────────────────────────────────────────────────
+    fig = make_subplots(
+        rows=1, cols=2,
+        subplot_titles=("Convergence Trajectory", "Error Decay (log–log)"),
+        horizontal_spacing=0.11,
+    )
+
+    # ── Static traces (indices 0, 1 — always visible) ────────────────────────
+    fig.add_trace(go.Scatter(
+        x=[x_min, x_max], y=[bsm, bsm],
+        mode="lines",
+        line=dict(color="#c00000", width=1.5, dash="dash"),
+        name=f"BSM  {bsm:.4f}",
+    ), row=1, col=1)
+
+    fig.add_trace(go.Scatter(
+        x=guide_x.tolist(), y=guide_y.tolist(),
+        mode="lines",
+        line=dict(color=GREY, width=1.2, dash="dot"),
+        name="O(N⁻¹/²) guide",
+    ), row=1, col=2)
+
+    # ── Animated traces (indices 2–7) — all start empty ─────────────────────
+    # Richardson also starts with showlegend=False so it is absent from the
+    # legend until the first p2 frame sets showlegend=True.
+    for label, is_richardson in [("CRR", False), ("JR", False), ("Richardson", True)]:
+        color  = COLORS[label]
+        symbol = SYMBOLS[label]
+
+        fig.add_trace(go.Scatter(           # prices — col 1
+            x=[], y=[],
+            mode="lines+markers",
+            line=dict(color=color, width=1.8),
+            marker=dict(symbol=symbol, size=6, color=color),
+            name=label,
+            legendgroup=label,
+            showlegend=not is_richardson,   # Richardson hidden until p2 starts
+        ), row=1, col=1)
+
+        fig.add_trace(go.Scatter(           # errors — col 2
+            x=[], y=[],
+            mode="lines+markers",
+            line=dict(color=color, width=1.8),
+            marker=dict(symbol=symbol, size=6, color=color),
+            name=label,
+            legendgroup=label,
+            showlegend=False,
+        ), row=1, col=2)
+
+    # Trace index map:
+    #   0 BSM line   1 guide
+    #   2 CRR prices 3 CRR errors
+    #   4 JR prices  5 JR errors
+    #   6 Ric prices 7 Ric errors
+
+    # ── Phase 1 frames: CRR & JR build up ────────────────────────────────────
+    p1_N = sorted(set(
+        int(n) for res in [crr_res, jr_res] for n in res["N_values"]
+    ))
+    p1_frames = []
+    for n_max in p1_N:
+        mc = crr_res["N_values"] <= n_max
+        mj = jr_res["N_values"]  <= n_max
+        p1_frames.append(go.Frame(
+            name=f"p1_{n_max}",
+            traces=[2, 3, 4, 5],
+            data=[
+                go.Scatter(x=crr_res["N_values"][mc].tolist(), y=crr_res["prices"][mc].tolist()),
+                go.Scatter(x=crr_res["N_values"][mc].tolist(), y=crr_res["errors_abs"][mc].tolist()),
+                go.Scatter(x=jr_res["N_values"][mj].tolist(),  y=jr_res["prices"][mj].tolist()),
+                go.Scatter(x=jr_res["N_values"][mj].tolist(),  y=jr_res["errors_abs"][mj].tolist()),
+            ],
+        ))
+
+    # ── Phase 2 frames: Richardson builds up ─────────────────────────────────
+    p2_N = sorted(int(n) for n in ric_res["N_values"])
+    p2_frames = []
+    for i, n_max in enumerate(p2_N):
+        mr = ric_res["N_values"] <= n_max
+        # First frame: expand error axis downward + reveal Richardson in legend
+        first = (i == 0)
+        frame_layout = go.Layout(yaxis2=dict(range=[log_err_min_p2, log_err_max_p2])) if first else None
+        p2_frames.append(go.Frame(
+            name=f"p2_{n_max}",
+            traces=[6, 7],
+            data=[
+                go.Scatter(
+                    x=ric_res["N_values"][mr].tolist(),
+                    y=ric_res["prices"][mr].tolist(),
+                    showlegend=first,
+                ),
+                go.Scatter(
+                    x=ric_res["N_values"][mr].tolist(),
+                    y=ric_res["errors_abs"][mr].tolist(),
+                ),
+            ],
+            layout=frame_layout,
+        ))
+
+    fig.frames = p1_frames + p2_frames
+
+    # ── Animation timing ─────────────────────────────────────────────────────
+    smooth = dict(
+        frame=dict(duration=630, redraw=True),
+        transition=dict(duration=470, easing="cubic-in-out"),
+        fromcurrent=False,
+        mode="immediate",
+    )
+    pause_args = [[None], dict(frame=dict(duration=0, redraw=False), mode="immediate")]
+
+    # ── Buttons ──────────────────────────────────────────────────────────────
+    fig.update_layout(
+        updatemenus=[dict(
+            type="buttons",
+            direction="left",
+            x=0.5, xanchor="center",
+            y=-0.13,
+            showactive=True,
+            buttons=[
+                dict(label="▶  CRR & JR",
+                     method="animate",
+                     args=[[f.name for f in p1_frames], smooth]),
+                dict(label="▶  Add Richardson",
+                     method="animate",
+                     args=[[f.name for f in p2_frames], smooth]),
+                dict(label="⏸  Pause",
+                     method="animate",
+                     args=pause_args),
+            ],
+        )],
+    )
+
+    # ── Axes and layout ──────────────────────────────────────────────────────
+    fig.update_layout(
+        title=dict(
+            text="European Put — CRR vs Jarrow-Rudd vs Richardson: Convergence to BSM",
+            font=dict(size=14),
+            x=0.5,
+        ),
+        legend=dict(x=1.02, y=1, borderwidth=1),
+        height=530,
+        margin=dict(l=65, r=160, t=75, b=110),
+        plot_bgcolor="white",
+        paper_bgcolor="white",
+        font=dict(family="Arial", size=11),
+    )
+
+    fig.update_xaxes(type="log", showgrid=True, gridcolor="#e8e8e8",
+                     title_text="Number of Time Steps N", minor_showgrid=True,
+                     range=[log_x_min, log_x_max])
+    fig.update_yaxes(showgrid=True, gridcolor="#e8e8e8",
+                     title_text="Option Price", row=1, col=1,
+                     range=price_range)
+    # Error panel starts with Phase 1 range
+    fig.update_yaxes(type="log", showgrid=True, gridcolor="#e8e8e8",
+                     title_text="Absolute Pricing Error", row=1, col=2,
+                     minor_showgrid=True,
+                     range=[log_err_min_p1, log_err_max_p1])
+
+    fig.write_html(save_path, include_plotlyjs="cdn", auto_play=False)
+    print(f"Animation saved: {save_path}")
+    return fig

diff --git a/codes/main.py b/codes/main.py
@@ -10,6 +10,7 @@ from crr_engine import crr_price, jr_price, bsm_price, richardson_price
 from convergence_plot import (convergence_analysis,
                               plot_convergence_comparison, plot_threshold_scan,
                               plot_crr_jr_model_risk_prices)
+from convergence_animated import plot_convergence_html
 
 # Reference parameters (memo Section 2.2)
 S0    = 100.0
@@ -98,6 +99,12 @@ def main():
     plot_convergence_comparison(
         {"CRR": crr_results, "JR": jr_results, "Richardson": ric_results},
         save_path=os.path.join(GRAPH_DIR, "convergence_comparison.png")
+    )
+
+    # Interactive HTML animation
+    plot_convergence_html(
+        {"CRR": crr_results, "JR": jr_results, "Richardson": ric_results},
+        save_path=os.path.join(GRAPH_DIR, "convergence_comparison.html")
     )
 
     # Convergence slopes

diff --git a/codes/convergence_plot.py b/codes/convergence_plot.py
@@ -214,12 +214,12 @@ def plot_threshold_scan(N_values, errors_pct_dict, threshold=0.05,
         )
         if stable_idx is not None:
             ci = stable_idx
-            ax.axvline(N[ci], color=style["color"], linewidth=0.8,
-                       linestyle=":", alpha=0.6)
+            ax.axvline(N[ci], color=style["color"], linewidth=1.8,
+                       linestyle="--", alpha=0.9)
             ax.annotate(
                 f"N={N[ci]}\n(stable)",
                 xy=(N[ci], errs[ci]),
-                xytext=(N[ci] * 1.1, errs[ci] * 2.0),
+                xytext=(N[ci] * 1.1, errs[ci] * 5.0),
                 fontsize=8, color=style["color"],
                 arrowprops=dict(arrowstyle="->", color=style["color"], lw=0.7)
             )

diff --git a/README.md b/README.md
@@ -13,8 +13,9 @@ A from-scratch Python implementation of binomial tree option pricers (CRR and Ja
 │   ├── crr_engine.py          # Core pricing engine
 │   ├── convergence_plot.py    # Visualization module
 │   └── main.py                # Entry point — runs all four parts
-├── graphs/                    # Output figures (PNG, 300 DPI)
+├── graphs/                    # Output figures (PNG, 300 DPI) and interactive HTML
 │   ├── convergence_comparison.png
+│   ├── convergence_comparison.html  # Interactive animation (Plotly)
 │   ├── eu_threshold_scan.png
 │   └── crr_jr_model_risk_prices.png
 └── reference paper/
@@ -97,6 +98,7 @@ Runs the full analysis in four parts with reference parameters `S0=100, K=100, T
 numpy
 scipy
 matplotlib
+plotly
 ```
 
 Install with: